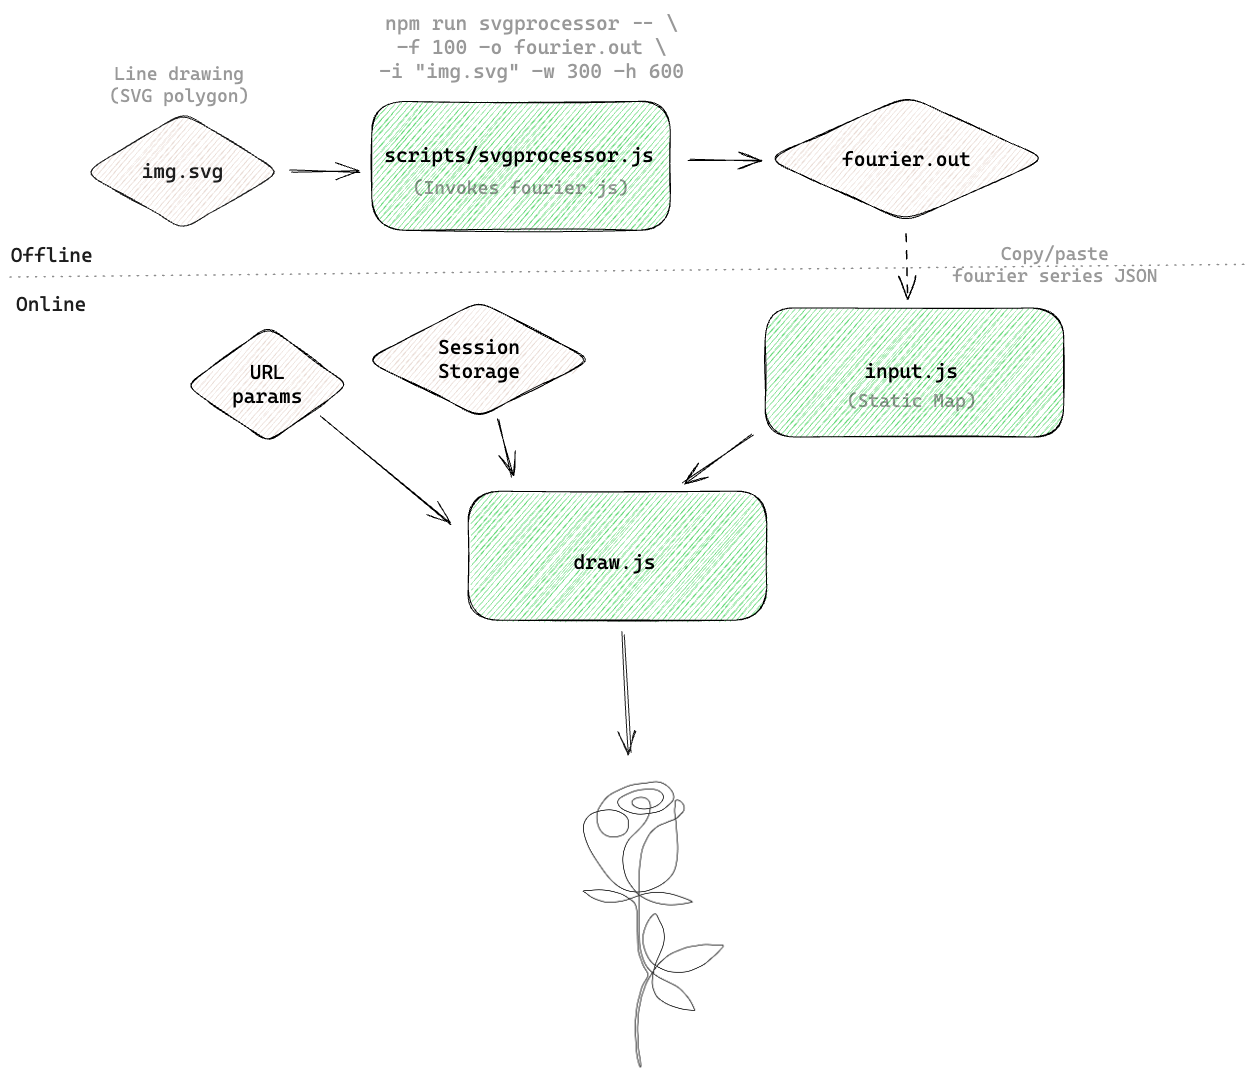
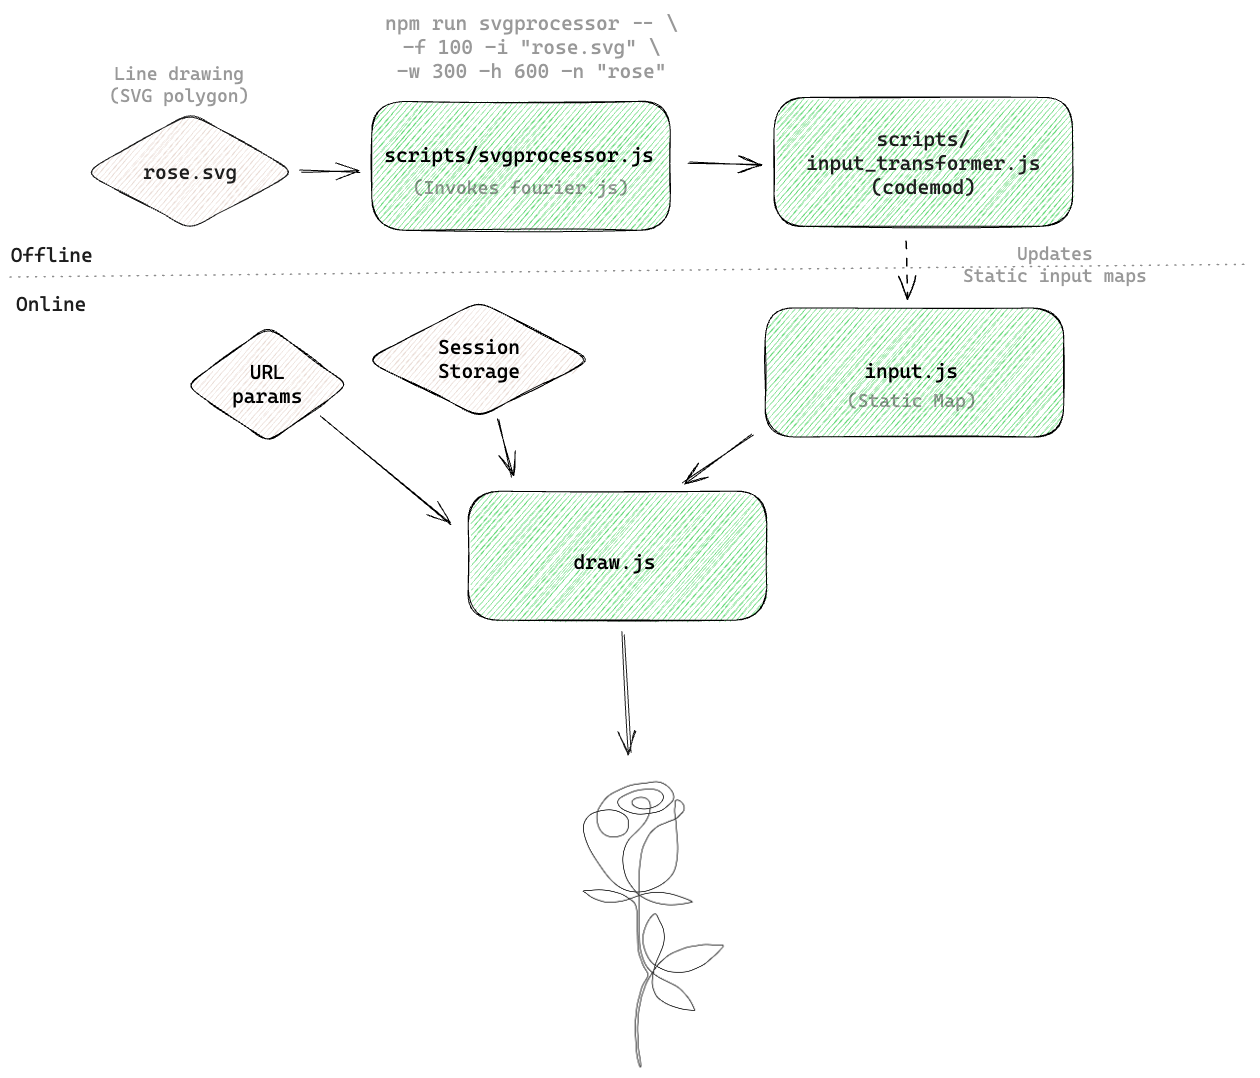
Add codemod to update input.js

diff --git a/scripts/svgprocessor.js b/scripts/svgprocessor.js
@@ -8,6 +8,8 @@ const { xml2js } = pkg;
 import _ from "lodash";
 import { Locker, Log, Polyline } from "../utils.js";
 import { Fourier } from "../fourier.js";
+import { run as jscodeshift } from "jscodeshift/src/Runner.js";
+import * as path from "path";
 
 Log.DEBUG_MODE = true;
 
@@ -52,6 +54,11 @@ const cliArgs = [
     type: String,
     defaultValue: "deadbeef",
   },
+  {
+    name: "name",
+    alias: "n",
+    type: String,
+  },
 ];
 const args = commandLineArgs(cliArgs);
 
@@ -84,7 +91,7 @@ const scalePolylinePoints = (polyline, targetW, targetH, srcW, srcH) => {
   return polyline;
 };
 
-const parseSvg = (filePath, width, height, mode = "polyline") => {
+const main = async (filePath, width, height, mode = "polyline") => {
   const data = readFileSync(filePath, "utf8").toString();
   const xml = xml2js(data);
 
@@ -108,15 +115,15 @@ const parseSvg = (filePath, width, height, mode = "polyline") => {
   if (scaled.length > 1) {
     throw new Error("More than one polylines is not supported for fourier");
   }
-  toFourier(scaled[0], width, height);
+  await toFourier(scaled[0], width, height);
 };
 
-const toFourier = (polyline, width, height) => {
+const toFourier = async (polyline, width, height) => {
   const plObj = Polyline.fromRawPoints(polyline);
   // Translate image so its center is at origin.
   const origin = plObj.avg();
   const series = plObj.translate(-origin.re, -origin.im).points;
-  Log.i("applying fourier transform");
+  Log.i("Applying fourier transform");
 
   const json = Fourier.transformAndEncode(
     series,
@@ -126,18 +133,37 @@ const toFourier = (polyline, width, height) => {
   );
   let data = JSON.stringify(json);
 
+  let mapName = "PUBL";
   if (args.encrypt) {
     Log.i("encrypting");
     data = Locker.lock(data, Locker.mk(args.key));
+    mapName = "PRIV";
   }
 
-  const outPath = args.output;
-  writeFileSync(outPath, data);
-  Log.i(`Written output to ${outPath}`);
+  if (args.name) {
+    await transformInputJs(mapName, args.name, data);
+    Log.i(`Updated input.js with key ${args.name}`);
+  } else {
+    const outPath = args.output;
+    writeFileSync(outPath, data);
+    Log.i(`Written output to ${outPath}`);
+  }
 };
 
 const elems = (elementsArr, fn = (e) => e.type == "element") => {
   return _.filter(elementsArr, fn);
 };
 
-parseSvg(args.input, args.width, args.height, MODE);
+const transformInputJs = async (mapName, k, v) => {
+  Log.i("Transforming input.js");
+  // paths relative to 'npm run svgprocessor' script
+  const transformPath = path.resolve("./scripts/input_transformer.ts");
+  const paths = [path.resolve("input.js")];
+  const options = {
+    mapName,
+    valuePairs: [[k, v]],
+  };
+  await jscodeshift(transformPath, paths, options);
+};
+
+await main(args.input, args.width, args.height, MODE);

diff --git a/scripts/input_transformer.ts b/scripts/input_transformer.ts
@@ -1,0 +1,19 @@
+// Transforms input.js file to add new (key, value) pairs to static map objects.
+// See svgprocessor.js for how this is used.
+// TODO annoying that ES6 export doesn't work here! Also only works with .ts
+module.exports = (file, api, options) => {
+  const j = api.jscodeshift;
+  const { mapName, valuePairs } = options;
+
+  return j(file.source)
+    .find(j.VariableDeclarator)
+    .filter(path => path.value.id.name === mapName)
+    .find(j.ObjectExpression)
+    .forEach(obj => {
+      // really only ever transforms 1 object in input.js
+      for (const [k, v] of valuePairs) {
+        obj.value.properties.push(j.property('init', j.identifier(k), j.literal(v)));
+      }
+    })
+    .toSource();
+};
